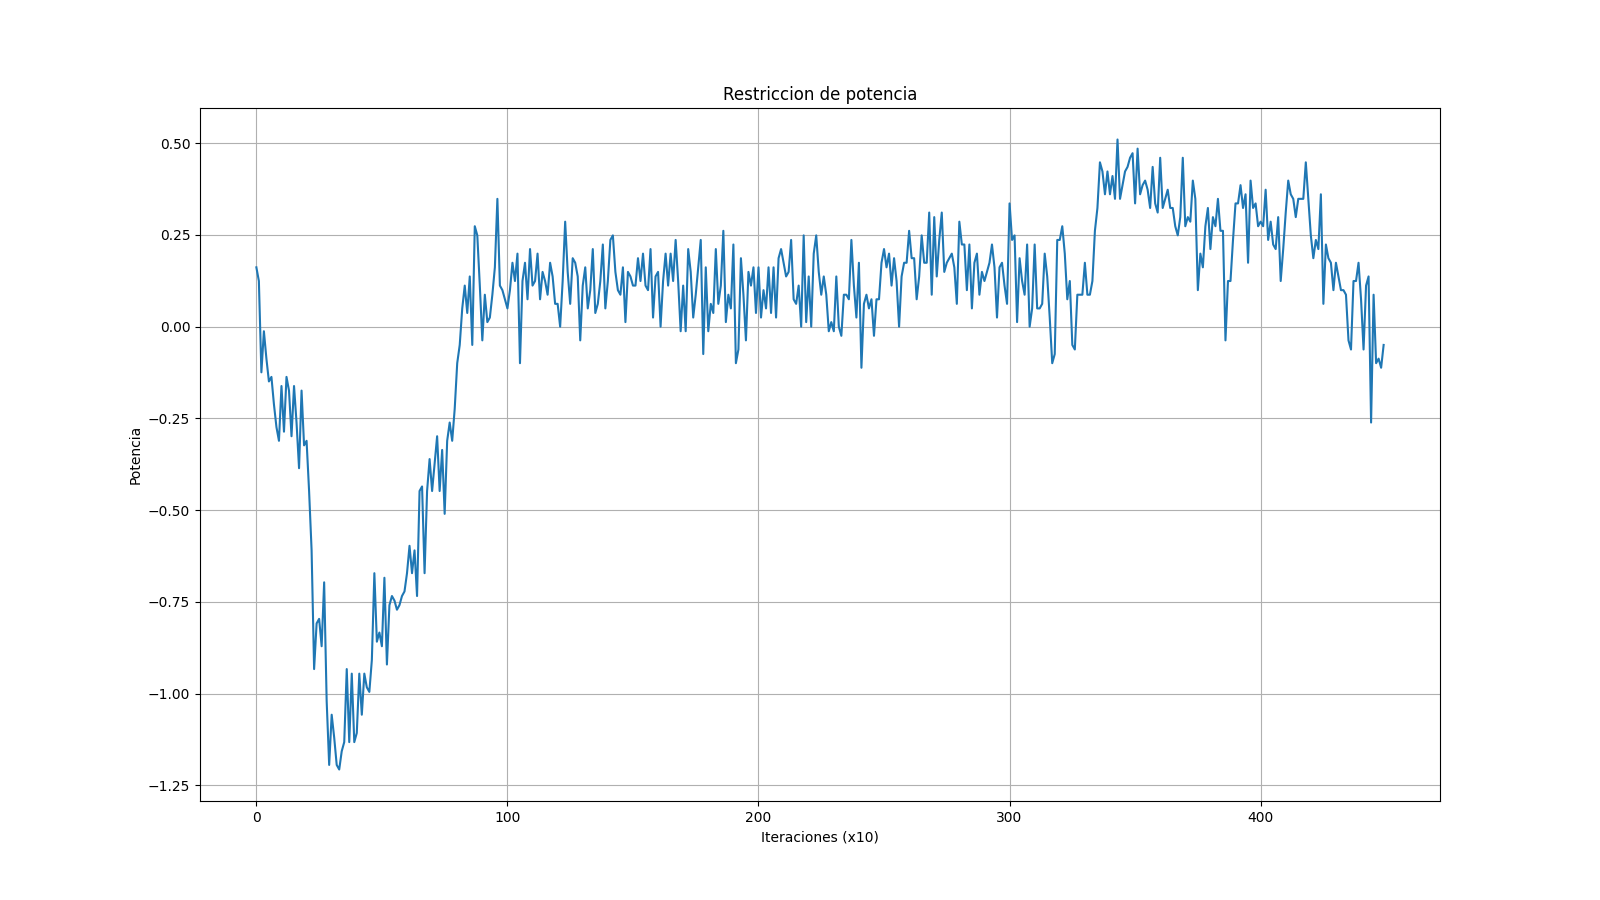
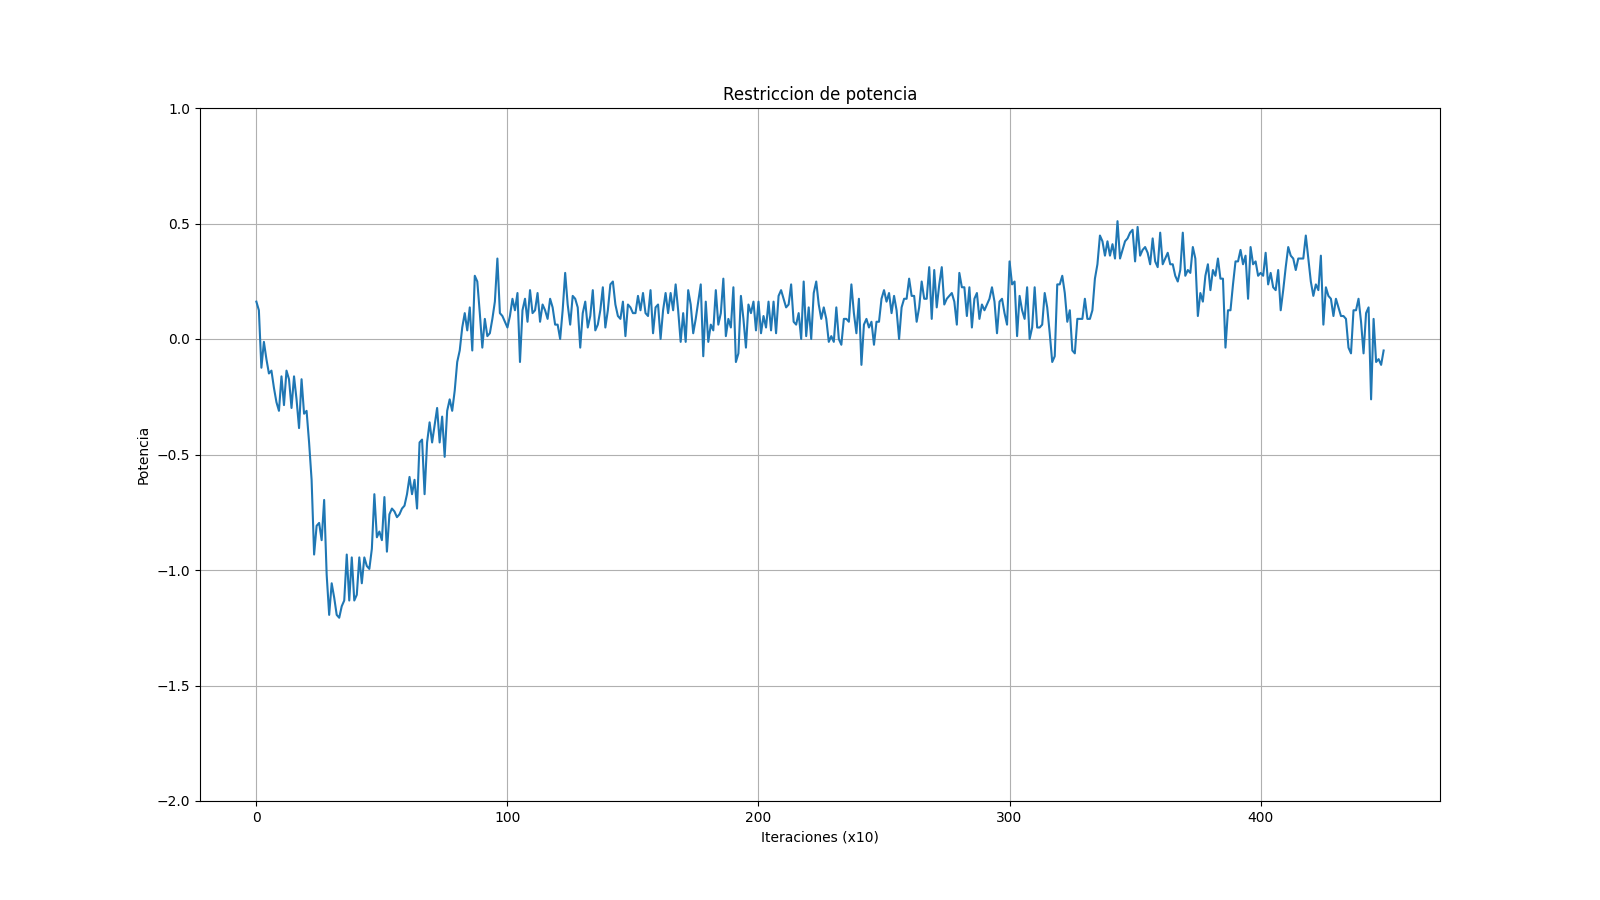
Agrego plot por nodo

diff --git a/RUN/plot_results_torch.py b/RUN/plot_results_torch.py
@@ -59,18 +59,30 @@ def plot_results(building_id, b5g, normalized_psi, normalized_psi_values=[], num
         # plt.savefig(image_path)
         # plt.close()
 
-    if len(power_constraint_values) > 0:
+        if len(power_constraint_values) > 0:
 
-        plt.figure(figsize=(16,9))
-        plt.title('Restriccion de potencia')
-        plt.xlabel('Iteraciones (x10)')
-        plt.ylabel('Potencia')
-        plt.plot(power_constraint_values)
-        plt.grid()
-        image_name = f'power constraint'+ '_' + eps_str + '_' + mu_lr_str + '_' + batch_size_str + '.png'
-        image_path = os.path.join(path, image_name)
-        plt.savefig(image_path)
-        plt.close()
+            plt.figure(figsize=(16,9))
+            plt.title('Restriccion de potencia')
+            plt.xlabel('Iteraciones (x10)')
+            plt.ylabel('Potencia')
+            plt.plot(power_constraint_values)
+            plt.ylim(-2, 1)  # ← AÑADIR ESTA LÍNEA
+            plt.grid()
+            image_name = f'power constraint'+ '_' + eps_str + '_' + mu_lr_str + '_' + batch_size_str + '.png'
+            image_path = os.path.join(path, image_name)
+            plt.savefig(image_path)
+            plt.close()
+
+        # plt.figure(figsize=(16,9))
+        # plt.title('Restriccion de potencia post 2000')
+        # plt.xlabel('Iteraciones (x10)')
+        # plt.ylabel('Potencia')
+        # plt.grid()        
+        # plt.plot(power_constraint_values[2000:])
+        # image_name = f'power_constraint_post2000'+ '_' + eps_str + '_' + mu_lr_str + '_' + batch_size_str + '.png'
+        # image_path = os.path.join(path, image_name)
+        # plt.savefig(image_path)
+        # plt.close()
 
         # plt.figure(figsize=(16,9))
         # plt.title('Restriccion de potencia post 2000')
@@ -132,14 +144,54 @@ def plot_results(building_id, b5g, normalized_psi, normalized_psi_values=[], num
         # plt.close()
     
     if (len(normalized_psi_values) > 0):
-        plt.figure(figsize=(16,9))
-        plt.plot(normalized_psi_values)
-        plt.grid()
-        image_name = 'policies.png'
-        image_path = os.path.join(path, image_name)
-        plt.savefig(image_path)
-        plt.close()
-
+        normalized_psi_array = np.array(normalized_psi_values)  # [iterations, num_links, num_channels+1]
+        
+        num_nodes = normalized_psi_array.shape[1]
+        num_channels = normalized_psi_array.shape[2]
+        
+        # Crear carpeta para políticas por nodo
+        policy_dir = os.path.join(path, 'policy_per_node')
+        if not os.path.exists(policy_dir):
+            os.makedirs(policy_dir)
+        
+        # Plot para cada nodo: todos sus canales
+        for node_idx in range(num_nodes):
+            plt.figure(figsize=(16, 12))
+            plt.title(f'Probabilidades de Canales - Nodo {node_idx}')
+            plt.xlabel('Iteraciones (x10)')
+            plt.ylabel('Probabilidad')
+            
+            # Plotear cada canal del nodo
+            for channel_idx in range(num_channels):
+                if channel_idx == 0:
+                    label = f'No TX'
+                else:
+                    label = f'Canal {channel_idx-1}'
+                
+                plt.plot(normalized_psi_array[:, node_idx, channel_idx], 
+                        label=label, linewidth=2)
+            
+            plt.legend()
+            plt.grid(True)
+            plt.ylim(0, 1)  # Probabilidades entre 0 y 1
+            
+            image_name = f'node_{node_idx}_channel_probs.png'
+            image_path = os.path.join(policy_dir, image_name)  # Guardar en subcarpeta
+            plt.savefig(image_path)
+            plt.close()
+        
+        # También guardar CSV de políticas en la subcarpeta
+        final_probs = normalized_psi_array[-1]  # Última iteración        
+  
+    
+    # Estadísticas finales SIMPLIFICADAS (sin "No TX")
+    print(f"Probabilidades finales por nodo (solo canales):")
+    for node_idx in range(num_nodes):
+        # Solo canales de transmisión (ignorar el primer elemento "No TX")
+        channel_probs = final_probs[node_idx, 1:] if len(final_probs.shape) > 1 else final_probs[1:]
+        best_channel = np.argmax(channel_probs)
+        best_prob = channel_probs[best_channel]
+        print(f"  Nodo {node_idx}: Canal {best_channel} ({best_prob:.3f})")
 
     normalized_psi= torch.mean(normalized_psi, dim=0)
     normalized_psi_array = normalized_psi.detach().numpy()

diff --git a/RUN/utils.py b/RUN/utils.py
@@ -194,8 +194,46 @@ def get_rates(phi, channel_matrix_batch, sigma):
     rates = torch.log(numerator / denominator + 1)
     return rates
 
+# def nuevo_get_rates(phi, channel_matrix_batch, sigma, p0=4, alpha=0.3, p_rx_threshold=1e-1, eps=1e-12):
+#     """Versión corregida de nuevo_get_rates"""
+#     batch_size, num_links, num_channels = phi.shape
+
+#     # Señal útil
+#     diagH = torch.diagonal(channel_matrix_batch, dim1=1, dim2=2)
+#     signal = diagH.unsqueeze(-1) * phi
+
+#     # Interferencia intra-canal
+#     interf_same = torch.einsum('bij,bjc->bic', channel_matrix_batch.float(), phi.float()) - signal
+
+#     # Interferencia por canales solapados
+#     interf_overlap = torch.zeros_like(interf_same)
+#     if num_channels > 1:
+#         left_shift = torch.roll(phi, shifts=1, dims=2)
+#         right_shift = torch.roll(phi, shifts=-1, dims=2)
+#         interf_overlap = alpha * (left_shift + right_shift)
+#     interf_overlap *= alpha
+
+#     denom = sigma + interf_same + interf_overlap
+    
+#     snr = signal / (denom + eps)
+
+#     for c in range(num_channels):
+#         p_ch = phi[:, :, c]
+#         recv_power = channel_matrix_batch * p_ch.unsqueeze(1)
+        
+#         tx_active = p_ch > eps
+#         seen = (recv_power >= p_rx_threshold) & (tx_active.unsqueeze(1))
+#         seen_count = seen.sum(dim=-1) 
+        
+#         invalid = seen_count >= 2
+        
+#         snr[:, :, c] = snr[:, :, c] * (~invalid).float()  
+
+#     # Tasa por enlace
+#     rates = torch.log1p(torch.sum(snr, dim=-1))  # [batch, links]
+#     return rates
+
 def nuevo_get_rates(phi, channel_matrix_batch, sigma, p0=4, alpha=0.3, p_rx_threshold=1e-1, eps=1e-12):
-    """Versión corregida de nuevo_get_rates"""
     batch_size, num_links, num_channels = phi.shape
 
     # Señal útil
@@ -205,31 +243,10 @@ def nuevo_get_rates(phi, channel_matrix_batch, sigma, p0=4, alpha=0.3, p_rx_thre
     # Interferencia intra-canal
     interf_same = torch.einsum('bij,bjc->bic', channel_matrix_batch.float(), phi.float()) - signal
 
-    # Interferencia por canales solapados
-    interf_overlap = torch.zeros_like(interf_same)
-    if num_channels > 1:
-        left_shift = torch.roll(phi, shifts=1, dims=2)
-        right_shift = torch.roll(phi, shifts=-1, dims=2)
-        interf_overlap = alpha * (left_shift + right_shift)
-    interf_overlap *= alpha
-
-    denom = sigma + interf_same + interf_overlap
+    denom = sigma + interf_same
     
     snr = signal / (denom + eps)
-
-    for c in range(num_channels):
-        p_ch = phi[:, :, c]
-        recv_power = channel_matrix_batch * p_ch.unsqueeze(1)
-        
-        tx_active = p_ch > eps
-        seen = (recv_power >= p_rx_threshold) & (tx_active.unsqueeze(1))
-        seen_count = seen.sum(dim=-1) 
-        
-        invalid = seen_count >= 2
-        
-        snr[:, :, c] = snr[:, :, c] * (~invalid).float()  
 
     # Tasa por enlace
     rates = torch.log1p(torch.sum(snr, dim=-1))  # [batch, links]
     return rates
-

diff --git a/RUN/train.py b/RUN/train.py
@@ -123,8 +123,11 @@ def run(building_id=990, b5g=False, num_links=5, num_channels=3, num_layers=5, K
             optimizer.step()
 
             if batch_idx%10 == 0:
-                probs_values.append(probs.mean(dim=[0,1]).detach().numpy())
-                # Guardar solo el valor medio de la restricción de potencia
+                # Guardar probabilidades COMPLETAS por nodo y canal (sin promediar)
+                # probs shape: [batch_size, num_links, num_channels+1]
+                probs_mean_batch = probs.mean(dim=0)  # Promedio sobre batch: [num_links, num_channels+1]
+                probs_values.append(probs_mean_batch.detach().numpy())
+                
                 power_constraint_values.append(power_constr_per_ap_mean.detach().numpy())
                 objective_function_values.append(-sum_rate_mean.detach().numpy())
                 loss_values.append(loss_mean.squeeze(-1).detach().numpy())
